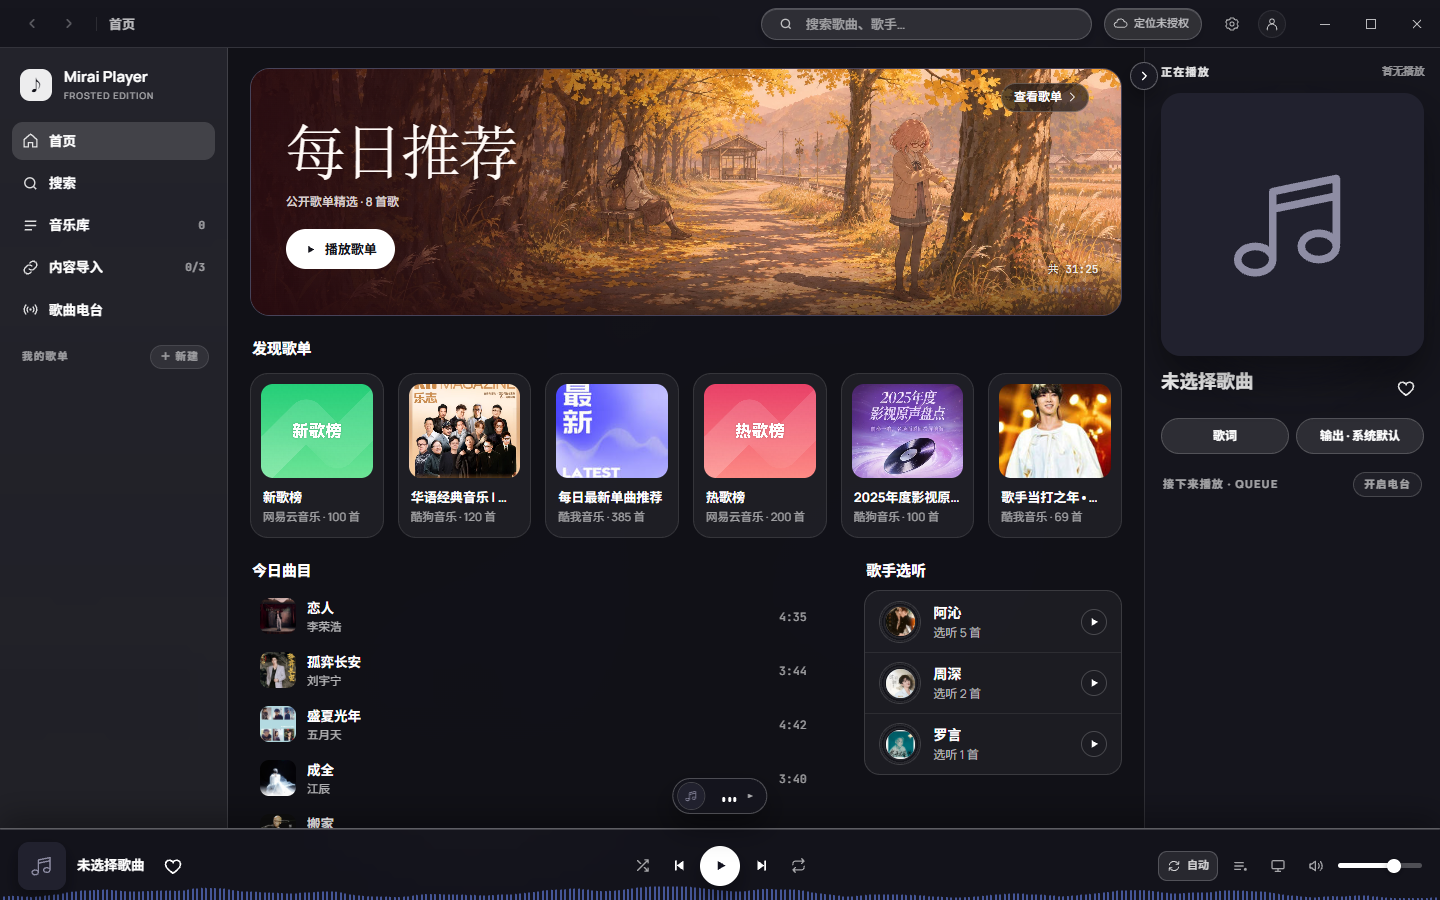
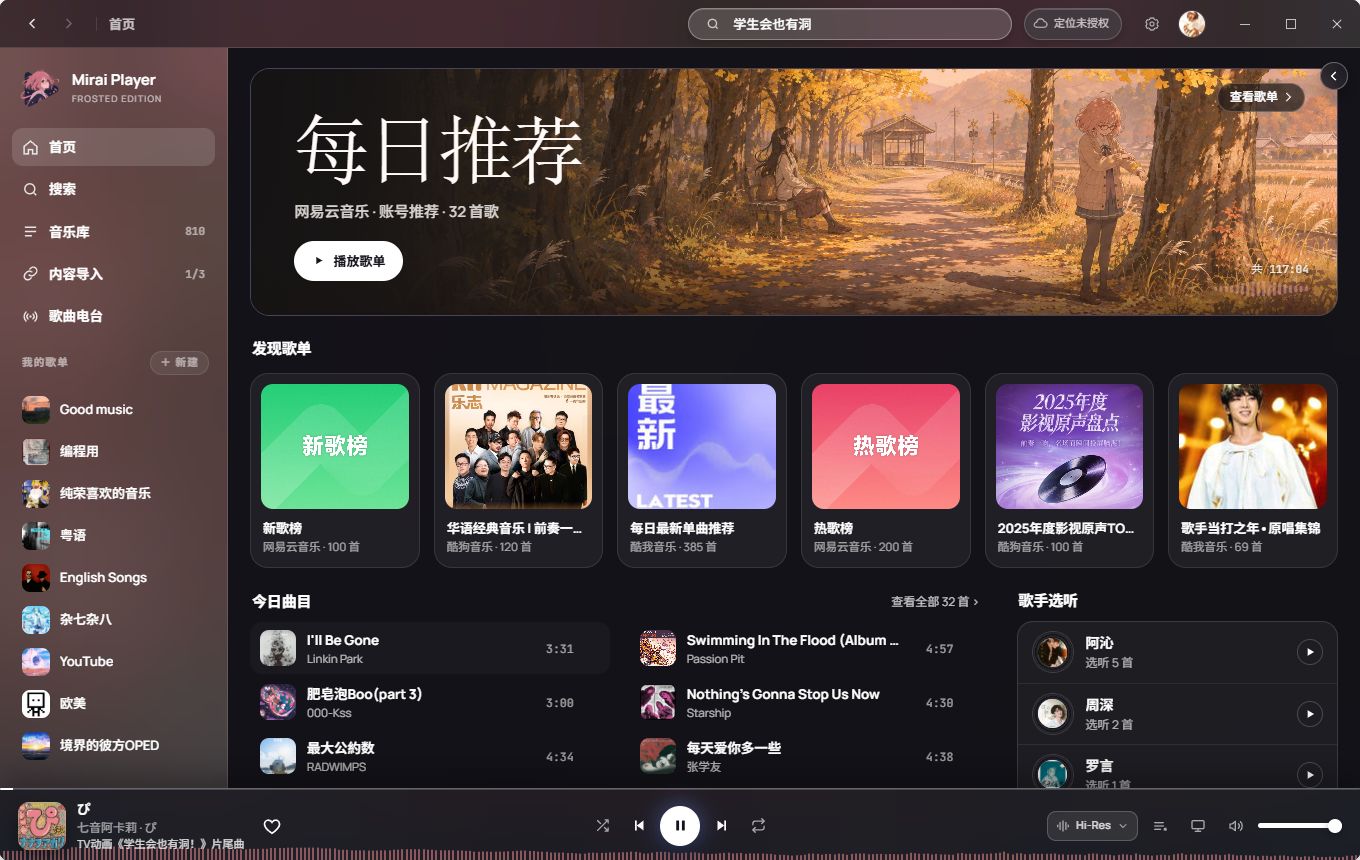
docs: 用登录播放实拍统一双语首页和功能指南

diff --git a/docs/images/showcase.html b/docs/images/showcase.html
@@ -7,24 +7,26 @@
   * { box-sizing: border-box }
   body { margin: 0; width: 1600px; height: 800px; overflow: hidden; background: #f9f9f8; color: #17171a; font-family: "Segoe UI", "Microsoft YaHei", sans-serif }
   main { position: relative; width: 100%; height: 100%; overflow: hidden; background: radial-gradient(ellipse at 87% 65%, #e0dfed 0%, transparent 47%) }
-  header { position: absolute; top: 209px; left: 64px; width: 504px }
+  header { position: absolute; top: 120px; left: 64px; width: 504px }
+  header .logo { display: block; width: 100px; height: 100px; margin-bottom: 22px }
   h1 { margin: 0 0 35px; font-size: 78px; font-weight: 720; line-height: 1.12; letter-spacing: -4px }
   h2 { margin: 0 0 17px; font-size: 42px; line-height: 1.2; font-weight: 620; letter-spacing: -2px }
   p { margin: 0; color: #61616a; font-size: 24px; line-height: 1.6 }
   small { display: block; margin-top: 34px; font-size: 17px; font-weight: 600; color: #656572; letter-spacing: .03em }
-  img { display: block; position: absolute; object-fit: cover; border-radius: 16px; border: 1px solid #27262d; box-shadow: 0 18px 50px #211c392b, 0 3px 12px #16131825 }
+  .back, .front { display: block; position: absolute; object-fit: cover; border-radius: 16px; border: 1px solid #27262d; box-shadow: 0 18px 50px #211c392b, 0 3px 12px #16131825 }
   .back { top: 81px; left: 565px; width: 852px }
   .front { top: 215px; left: 667px; width: 887px }
 </style>
 <main>
   <header>
-    <h1>MiraiPlayer</h1>
+    <img class="logo" src="miraiplayer-logo.png" alt="">
+    <h1>Mirai Player</h1>
     <h2>桌面音乐播放器</h2>
     <p>在线歌单、逐字歌词<br>与玻璃播放小窗</p>
     <small>Windows · macOS · Linux</small>
   </header>
-  <img class="back" src="feature-fashion.png" alt="">
-  <img class="front" src="feature-home.png" alt="">
+  <img class="back" src="feature-home.png" alt="">
+  <img class="front" src="feature-fashion.png" alt="">
 </main>
 <script>
   if (new URLSearchParams(location.search).get('lang') === 'en') {

diff --git a/docs/images/README.md b/docs/images/README.md
@@ -1,37 +1,28 @@
-# README 图片
+# Mirai Player 文档图片
 
-中英文 README 共用九张功能图，顶部各用一张 1600 × 800 的头图。头图左侧为对应语言的产品介绍，右侧叠放两张播放器截图。[中文首页](../../README.md) · [English README](../../README.en.md)
+中英文首页共用同一组播放中的桌面截图。顶图按语言分别排版，功能图保留 Windows 客户端原始中文界面。[中文首页](../../README.md) · [English](../../README.en.md)
 
-## 素材与来源
+## 拍摄内容
 
-| 文件 | 内容 | 采集方式 |
-| --- | --- | --- |
-| `showcase-hero-zh.png`、`showcase-hero-en.png` | 双语头图 | 本地浏览器渲染 [头图排版](showcase.html)，嵌入首页与时尚舞台截图 |
-| `feature-home.png` | 完整主窗口、每日推荐和发现 | 匿名浏览器打开当前应用，后端返回三平台公开歌单 |
-| `feature-playlist.png` | 网易云新歌榜详情 | 从首页打开歌单，等待实际完整曲目列表出现 |
-| `feature-platforms.png` | 三个平台的公开连接入口 | 未关联账号的浏览器会话 |
-| `feature-import.png` | 批量导入的歌单选择状态 | 隔离的界面回归样本 |
-| `feature-fashion.png`、`feature-ink.png`、`feature-subtitles.png` | 同一曲目的三种歌词排版 | 播放器组件真实渲染，歌曲、时间轴、译文及天气来自浏览器回归样本 |
-| `feature-equalizer.png`、`feature-desktop.png` | 音质与桌面设置 | 当前应用的独立设置路由，使用默认草稿 |
-| `home.png` | 首页内容区近景 | 之前保存的匿名公开推荐截图，供平台指南对照 |
+| 图片 | 画面 |
+| --- | --- |
+| `feature-home.png`、`home.png`（内容近景）、`feature-library.png` | 已关联账号的每日推荐、左侧导入歌单和本地音乐库 |
+| `feature-search.png` | 搜索“学生会也有洞”，在结果和播放栏查看《ぴ》的片尾曲标注 |
+| `feature-playlist.png`、`feature-queue.png` | Good music 歌单和播放中的队列 |
+| `feature-fashion.png`、`feature-ink.png`、`feature-subtitles.png`、`feature-chat.png` | 同一首《ぴ》在时尚、手书、字幕、对话四款舞台中的封面和同步歌词 |
+| `feature-platforms.png`、`feature-import.png` | 已关联平台、导入统计与歌单选择 |
+| `feature-equalizer.png`、`feature-desktop.png` | 同一桌面会话打开的音质与桌面设置 |
+| `miraiplayer-logo.png` | 粉发眼镜少女与播放符号，透明 PNG 母图 |
+| `showcase-hero-zh.png`、`showcase-hero-en.png` | 1600 × 800 的双语头图，由首页和时尚舞台实拍排版生成 |
 
-功能图来自网页渲染，系统任务栏、边框、安装器和系统音频设备不在截图范围内。公开歌单每天可能变化；图中样本账号及样本歌词用于说明交互，平台的实际返回以使用时为准。
+## 更新素材
 
-## 重新采集
+1. 在 Windows 上运行 `pnpm tauri dev`，打开已关联的平台账号和已导入的音乐库。在歌单或搜索结果点播一首有封面、同步歌词和作品说明的歌曲，等待进度开始移动。
+2. 截取应用内容边界，主窗按 1360 × 860 逻辑像素、独立设置窗按 860 × 740 逻辑像素保存。保持同一曲目、材质和界面缩放。任选歌单只用于展示选择状态，完成后关闭弹窗。发布前核对画面中的账号信息适合公开展示。
+3. 将截图保存为上表对应的文件。运行 `node docs/images/capture.mjs --hero` 重新排版两种语言的头图。脚本默认使用 Windows 上的 Edge，可用环境变量 `MIRAI_BROWSER` 指定其他 Chromium 可执行文件。
 
-1. 安装项目依赖，启动 `pnpm dev` 或使用已经运行的开发服务。使用独立 Edge / Chromium 配置，不打开日常使用的账号资料。
-2. 在仓库根目录执行下面的命令。首次采集需要后端可访问，且允许该预览来源的公开请求。
-3. 打开两张头图和九张功能图，确认封面、字体及选中态完整，截图中没有私有歌单、登录二维码、播放凭据或系统路径，再提交文档素材。
-
-```sh
-node docs/images/capture.mjs
-node docs/images/capture.mjs --hero
-```
-
-脚本默认使用 Windows 上的 Edge。其他安装位置可用 `MIRAI_BROWSER` 指定 Chromium 可执行文件。`MIRAI_QA_PORT` 指定本地预览端口。头图只依赖同目录的图片，可以单独重新渲染。浏览器关闭后，临时配置保存在忽略的 `.tmp/` 下。
-
-舞台样本使用项目现有的 Edge 回归与截图选项。平台导入样本使用隔离测试数据，更新时应保持勾选状态清晰。[浏览器回归入口](../../scripts/check-home-settings.mjs)
+本组截图来自正常启动的 Tauri 原生开发版。拍摄时使用已登录的桌面账号、现有曲库和真实播放。公开搜索及曲目详情由本地运行的 MiraiMusic-Server 更新版读取来源平台，播放授权和歌词沿用播放器原有服务。
 
 ## English
 
-The gallery shows the running app in an isolated Chromium session. Home and playlist detail use public catalog responses. Import selection and fullscreen lyric examples use test data, and the two settings images show the preview's default preferences. The bilingual hero images are local HTML layouts built from those screenshots. Use the commands above to refresh the live views and render the headers.
+The gallery follows one signed-in desktop session while **ぴ** by Nanawo Akari is playing. The screenshots show the account’s daily recommendations, imported library, search results, playback queue and all four lyric stages. Search and song details used the updated local catalog service with live provider responses. The two headers are composed from the same captures and the transparent app icon.

diff --git a/README.en.md b/README.en.md
@@ -39,43 +39,43 @@ MiraiPlayer brings public playlists, word-synchronized lyrics and floating deskt
 
 ## Interface preview
 
-### Home · daily picks and discovery
+### Home · account recommendations during playback
 
-<a href="docs/images/feature-home.png"><img src="docs/images/feature-home.png" width="100%" alt="Home · daily picks and discovery" /></a>
+<a href="docs/images/feature-home.png"><img src="docs/images/feature-home.png" width="100%" alt="Home · account recommendations during playback" /></a>
 
-### Public playlist · track list
+### Search · opening and ending themes by series name
 
-<a href="docs/images/feature-playlist.png"><img src="docs/images/feature-playlist.png" width="100%" alt="Public playlist · track list" /></a>
+<a href="docs/images/feature-search.png"><img src="docs/images/feature-search.png" width="100%" alt="Search · opening and ending themes by series name" /></a>
 
-### Platform connections · accounts and share links
+### Playlists · tracks in Good music
 
-<a href="docs/images/feature-platforms.png"><img src="docs/images/feature-platforms.png" width="100%" alt="Platform connections · accounts and share links" /></a>
+<a href="docs/images/feature-playlist.png"><img src="docs/images/feature-playlist.png" width="100%" alt="Playlists · tracks in Good music" /></a>
 
-### Selecting playlists to import
+### Queue · the current track and what plays next
 
-<a href="docs/images/feature-import.png"><img src="docs/images/feature-import.png" width="100%" alt="Selecting playlists to import" /></a>
+<a href="docs/images/feature-queue.png"><img src="docs/images/feature-queue.png" width="100%" alt="Queue · the current track and what plays next" /></a>
 
-### Fashion · artwork and synchronized lyrics
+### Fashion · album art and synchronized lyrics
 
-<a href="docs/images/feature-fashion.png"><img src="docs/images/feature-fashion.png" width="100%" alt="Fashion · artwork and synchronized lyrics" /></a>
+<a href="docs/images/feature-fashion.png"><img src="docs/images/feature-fashion.png" width="100%" alt="Fashion · album art and synchronized lyrics" /></a>
 
-### Handwritten · ink and lyrics
+### Handwritten · ink textures and bilingual lyrics
 
-<a href="docs/images/feature-ink.png"><img src="docs/images/feature-ink.png" width="100%" alt="Handwritten · ink and lyrics" /></a>
+<a href="docs/images/feature-ink.png"><img src="docs/images/feature-ink.png" width="100%" alt="Handwritten · ink textures and bilingual lyrics" /></a>
 
-### Subtitles · original and translated lines
+### Subtitles · the current line and its translation
 
-<a href="docs/images/feature-subtitles.png"><img src="docs/images/feature-subtitles.png" width="100%" alt="Subtitles · original and translated lines" /></a>
+<a href="docs/images/feature-subtitles.png"><img src="docs/images/feature-subtitles.png" width="100%" alt="Subtitles · the current line and its translation" /></a>
 
-### Audio · ten-band equalizer
+### Dialogue · alternating lyric bubbles
 
-<a href="docs/images/feature-equalizer.png"><img src="docs/images/feature-equalizer.png" width="100%" alt="Audio · ten-band equalizer" /></a>
+<a href="docs/images/feature-chat.png"><img src="docs/images/feature-chat.png" width="100%" alt="Dialogue · alternating lyric bubbles" /></a>
 
-### Desktop · lyrics, floating capsule and mini player
+### Connections · a linked account and imported playlists
 
-<a href="docs/images/feature-desktop.png"><img src="docs/images/feature-desktop.png" width="100%" alt="Desktop · lyrics, floating capsule and mini player" /></a>
+<a href="docs/images/feature-platforms.png"><img src="docs/images/feature-platforms.png" width="100%" alt="Connections · a linked account and imported playlists" /></a>
 
-<sub>Home, discovery, connections and settings were captured from the app in an anonymous browser session. Import and lyric previews use isolated test data for selection, timing and translated lines. <a href="docs/images/README.md">Image sources and reproduction</a></sub>
+<sub>Captured in the signed-in Windows desktop app while playing Nanawo Akari’s ぴ. Search and fullscreen playback show the anime ending-theme credit supplied by the music service. <a href="docs/images/README.md">Image sources and reproduction</a></sub>
 
 ## Downloads and installation
 

diff --git a/docs/playback.md b/docs/playback.md
@@ -6,9 +6,17 @@
 
 点播期间播放键会显示等待状态。曲目返回试听或不可播时，查看底栏与曲目来源的提示。音质设置表达请求的档位，播放与下载结果以当前资源为准。
 
+## 曲名、专辑与作品说明
+
+搜索结果分开显示歌名、歌手、专辑和作品说明。例如搜索“学生会也有洞”可找到《ぴ》，网易云将它标注为“TV动画《学生会也有洞！》片尾曲”。选择歌曲后，这条说明会跟随曲目进入播放栏、正在播放面板和全屏舞台。酷狗与酷我使用各自平台的标注，缺少说明时显示已有曲目信息。
+
+![播放中的搜索结果、专辑和作品说明](images/feature-search.png)
+
 ## 队列与键盘
 
 打开底栏或全屏播放里的队列，可以查看数量、当前曲目及队列顺序。长队列保留完整数据，只创建视口附近的行。上下键逐首移动，Home 和 End 可到达首尾。离开队列后播放器继续使用原来的顺序。
+
+![播放中的队列与当前曲目](images/feature-queue.png)
 
 | 播放器操作 | 按键 |
 | --- | --- |

diff --git a/docs/lyrics.md b/docs/lyrics.md
@@ -11,6 +11,10 @@
 
 ![时尚歌词舞台](images/feature-fashion.png)
 
+有作品标注的曲目在全屏时仍会显示这条信息。图中《ぴ》的专辑名与曲名相同，动画片尾曲说明单独显示。切换舞台会保留当前歌曲与进度。
+
+![对话舞台中交替排列的唱词与译文](images/feature-chat.png)
+
 ## 时间轴与翻译
 
 网易云提供逐字时间戳时，已唱部分跟随实际进度填白，未唱部分保持较低亮度。只有逐行 LRC 时按句跟随。前奏、间奏、无译文或只有部分译文的曲目，按实际返回的内容显示。平台未提供时间轴时不能展示逐字填色。

diff --git a/docs/platforms.md b/docs/platforms.md
@@ -25,7 +25,11 @@
 
 选择平台后可在歌单选择窗中勾选本页、取消本页或跨页保留选择。网易云扫码后需要平台确认身份并返回一致的 UID。扫码成功但公开歌单尚未读取完成时，可在已确认身份面板重试。
 
-![批量选择窗的隔离测试示例](images/feature-import.png)
+![已关联账号中勾选两份歌单的桌面实拍](images/feature-import.png)
+
+导入后可以在左侧进入相应歌单，也可以在音乐库查看已有曲目。
+
+![已登录账号的音乐库](images/feature-library.png)
 
 ## 首页与播放权限
 
